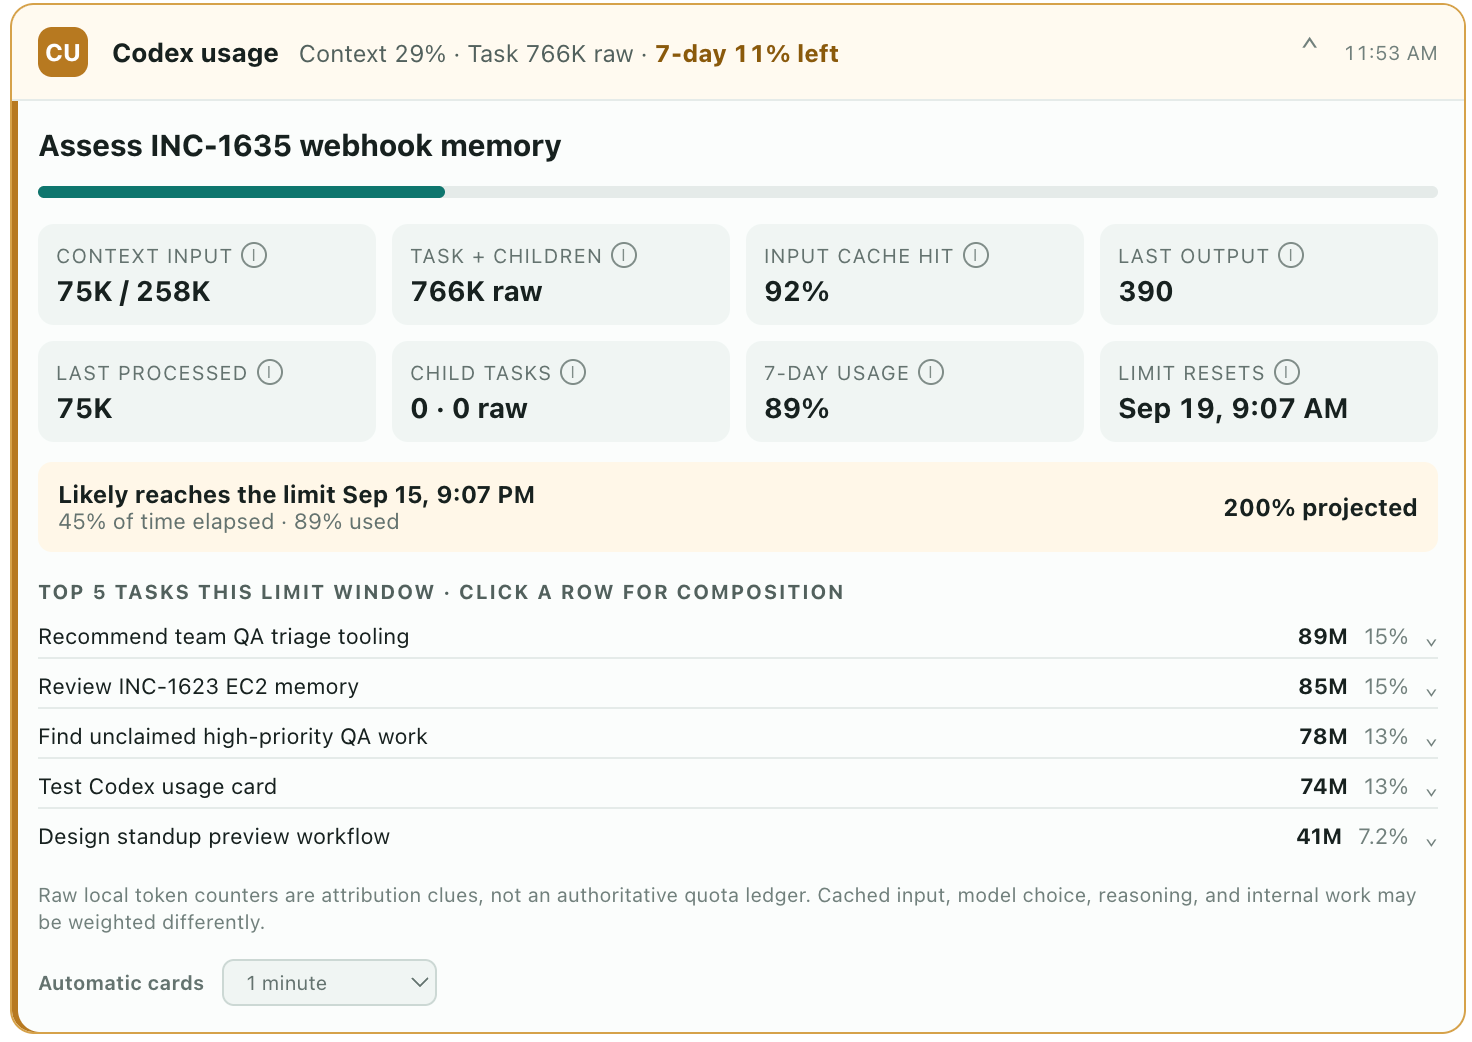
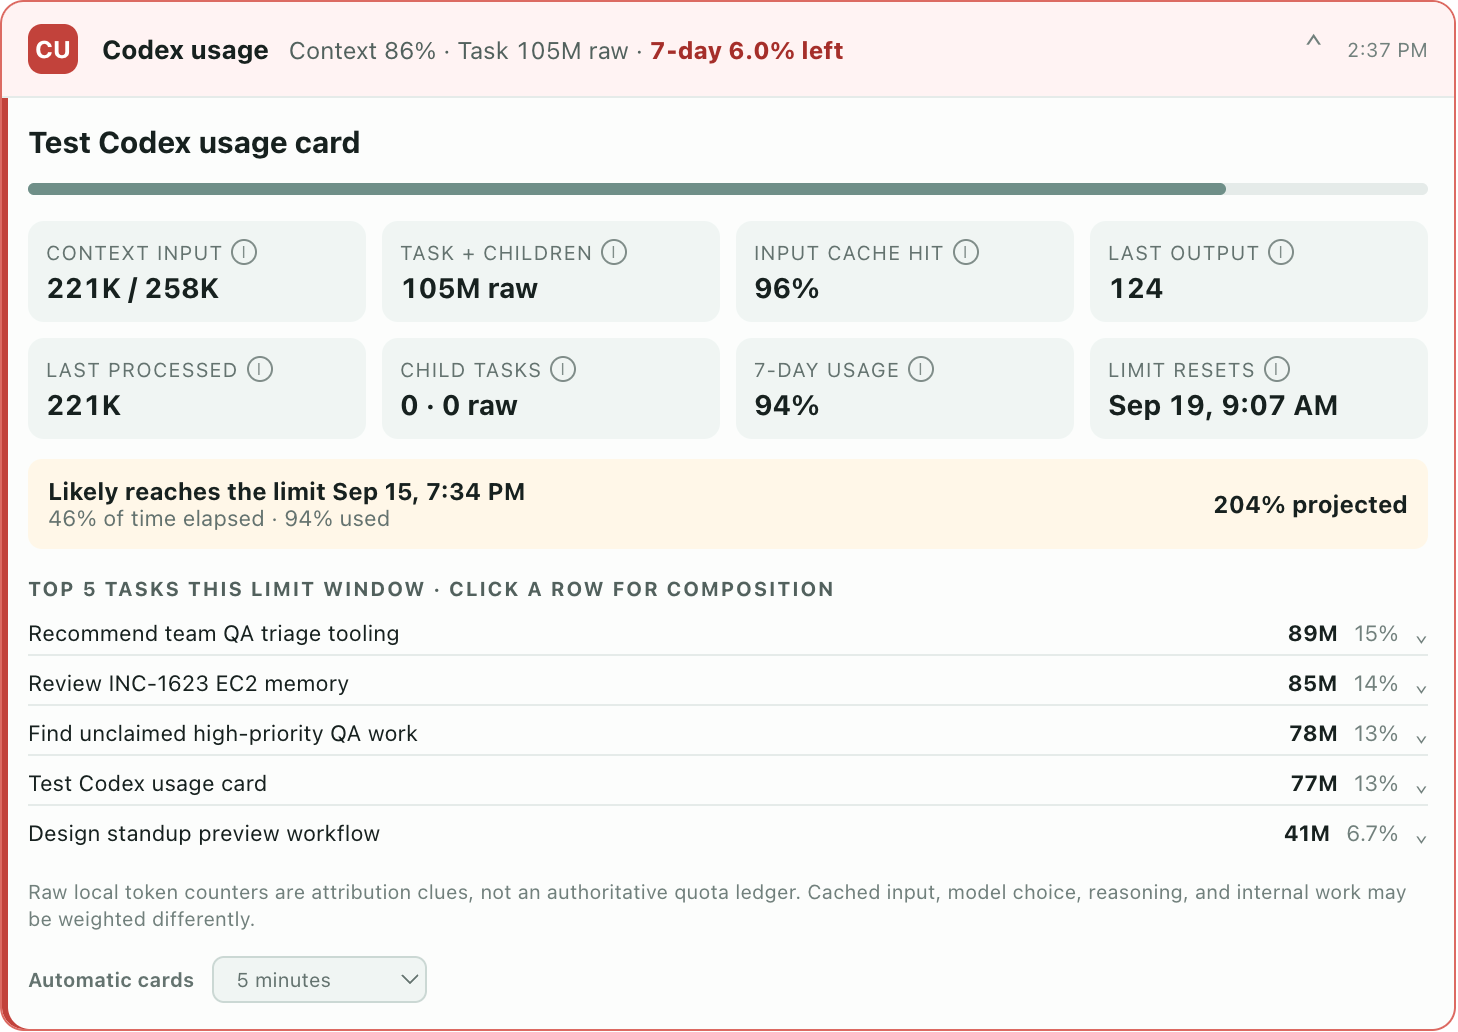
Load usage card details asynchronously
Codex-Session: Codex --resume 01a0a27d-30f0-7222-a56f-6a2e11464c00

diff --git a/assets/status-card.html b/assets/status-card.html
@@ -47,6 +47,7 @@
     .pace .projection { font-variant-numeric: tabular-nums; white-space: nowrap; }
     h3 { margin: 14px 0 6px; color: #52615d; font-size: 10px; text-transform: uppercase; letter-spacing: .08em; }
     .tasks { display: grid; gap: 3px; }
+    .details-loading { padding: 7px 0; color: #71807c; font-size: 10px; }
     .task-row { border-bottom: 1px solid #e5ebe9; }
     .task-row:last-child { border-bottom: 0; }
     .task-row > summary { display: grid; grid-template-columns: minmax(0, 1fr) auto auto auto; gap: 8px; align-items: center; padding: 4px 0; cursor: pointer; list-style: none; font-size: 11px; }
@@ -76,7 +77,7 @@
       .detail { border-color: #34403d; }
       .meter { background: #34403d; }
       .metric { background: #202927; }
-      .metric span, .chevron, .snapshot, .task-row .share, .task-caret, .task-breakdown, .pace span, .note, .settings, .loading { color: #9caaa6; }
+      .metric span, .chevron, .snapshot, .task-row .share, .task-caret, .task-breakdown, .pace span, .note, .settings, .loading, .details-loading { color: #9caaa6; }
       .alert { background: #352a18; }
       .alert.notice, .pace { background: #202927; }
       .pace.risk { background: #352a18; }
@@ -148,8 +149,13 @@
         refreshTimer = null;
         const live = data?.liveRefresh || {};
         const deadline = Number(live.untilEpochMs || 0);
-        if (!initialized || !live.enabled || !data?.thread?.id || deadline <= Date.now()) return;
+        const needsDetails = data?.detailsLoaded === false;
+        if (!initialized || !data?.thread?.id) return;
+        if (!needsDetails && (!live.enabled || deadline <= Date.now())) return;
         const interval = Math.max(1000, Number(live.intervalMs || 3000));
+        const delay = needsDetails
+          ? (document.visibilityState === 'hidden' ? 1000 : 0)
+          : Math.min(interval, Math.max(0, deadline - Date.now()));
         refreshTimer = window.setTimeout(async () => {
           if (document.visibilityState === 'hidden') {
             scheduleRefresh(data);
@@ -158,13 +164,17 @@
           try {
             const result = await request('tools/call', {
               name: 'refresh_usage_card',
-              arguments: { thread_id: data.thread.id, live_until_epoch_ms: deadline }
+              arguments: {
+                thread_id: data.thread.id,
+                live_until_epoch_ms: deadline,
+                live: Boolean(live.enabled)
+              }
             });
             render(structured(result));
           } catch (_error) {
             refreshTimer = null;
           }
-        }, Math.min(interval, Math.max(0, deadline - Date.now())));
+        }, delay);
       };
       function render(data) {
         if (!data || data.kind !== 'usage_card') return;
@@ -206,7 +216,10 @@
           const detail = `${pct(pace.elapsedPercent)} of time elapsed · ${pct(limit.usedPercent)} used`;
           paceRow = `<div class="pace ${risk ? 'risk' : ''}" title="Projection uses the average aggregate usage rate since this account window began; it will change as your pace changes."><div><strong>${esc(headline)}</strong><span>${esc(detail)}</span></div><strong class="projection">${pct(pace.projectedPercent)} projected</strong></div>`;
         }
-        const interval = Number(data.preferences?.autoCardIntervalSeconds ?? 60);
+        const interval = Number(data.preferences?.autoCardIntervalSeconds ?? 300);
+        const taskDetails = data.detailsLoaded === false
+          ? '<div class="details-loading">Loading cross-task breakdown…</div>'
+          : (taskRows || '<span class="note">No recorded activity.</span>');
         root.innerHTML = `
           <details ${expanded ? 'open' : ''}>
             <summary>
@@ -231,7 +244,7 @@
               ${paceRow}
               ${alerts}
               <h3>Top 5 tasks this limit window · click a row for composition</h3>
-              <div class="tasks">${taskRows || '<span class="note">No recorded activity.</span>'}</div>
+              <div class="tasks">${taskDetails}</div>
               <p class="note">Raw local token counters are attribution clues, not an authoritative quota ledger. Cached input, model choice, reasoning, and internal work may be weighted differently.</p>
               <div class="settings" title="Controls the minimum time between new automatic cards in each task. Existing cards remain historical snapshots.">
                 <label for="auto-card-interval">Automatic cards</label>

diff --git a/scripts/server.py b/scripts/server.py
@@ -47,7 +47,7 @@ _DASHBOARD_LOCK = threading.Lock()
 _REPORT_CACHE: dict[tuple[str, bool], tuple[float, dict[str, Any]]] = {}
 _REPORT_CACHE_LOCK = threading.Lock()
 _REPORT_CACHE_TTL_SECONDS = 10
-_CARD_REPORT_CACHE_TTL_SECONDS = 30
+_CARD_REPORT_CACHE_TTL_SECONDS = 5 * 60
 _LIMIT_CACHE: tuple[float, dict[str, Any] | None] | None = None
 _LIMIT_CACHE_LOCK = threading.Lock()
 _LIMIT_CACHE_TTL_SECONDS = 10
@@ -490,10 +490,16 @@ def current_conversation_usage(arguments: dict[str, Any]) -> dict[str, Any]:
     }
 
 
-def usage_card(arguments: dict[str, Any]) -> dict[str, Any]:
+def usage_card(
+    arguments: dict[str, Any], *, include_details: bool = True
+) -> dict[str, Any]:
     current = current_conversation_usage(arguments)
-    dashboard = _cached_usage_dashboard(
-        "current_window", False, _CARD_REPORT_CACHE_TTL_SECONDS
+    dashboard = (
+        _cached_usage_dashboard(
+            "current_window", False, _CARD_REPORT_CACHE_TTL_SECONDS
+        )
+        if include_details
+        else None
     )
     now = datetime.now(timezone.utc)
     live_requested = bool(arguments.get("live", True))
@@ -544,7 +550,8 @@ def usage_card(arguments: dict[str, Any]) -> dict[str, Any]:
         "combinedTokens": current["combinedTokens"],
         "limit": current["limit"],
         "pace": _usage_pace(current["limit"]),
-        "windowUsage": dashboard["totals"],
+        "detailsLoaded": include_details,
+        "windowUsage": dashboard["totals"] if dashboard else None,
         "topTasks": [
             {
                 "id": task["id"],
@@ -561,7 +568,7 @@ def usage_card(arguments: dict[str, Any]) -> dict[str, Any]:
                 "totalTokens": task["totalTokens"],
                 "sharePercent": task["sharePercent"],
             }
-            for task in dashboard["tasks"][:5]
+            for task in (dashboard["tasks"][:5] if dashboard else [])
         ],
         "alerts": alerts,
         "preferences": get_preferences(),
@@ -771,6 +778,11 @@ TOOLS = [
                 "type": "number",
                 "description": "The original card's fixed live-refresh deadline.",
             },
+            "live": {
+                "type": "boolean",
+                "default": True,
+                "description": "Continue live refreshes after the cross-task details load.",
+            },
         },
         required=["thread_id", "live_until_epoch_ms"],
     ),
@@ -945,17 +957,18 @@ def _handle(method: str, params: dict[str, Any]) -> Any:
         name = params.get("name")
         arguments = params.get("arguments") or {}
         if name == "show_usage_card":
-            return _tool_result(usage_card(arguments))
+            return _tool_result(usage_card(arguments, include_details=False))
         if name == "refresh_usage_card":
             return _tool_result(
                 usage_card(
                     {
                         "thread_id": arguments.get("thread_id"),
-                        "live": True,
+                        "live": bool(arguments.get("live", True)),
                         "live_until_epoch_ms": arguments.get(
                             "live_until_epoch_ms"
                         ),
-                    }
+                    },
+                    include_details=True,
                 )
             )
         if name == "get_usage_preferences":

diff --git a/tests/test_usage_card.py b/tests/test_usage_card.py
@@ -1,0 +1,96 @@
+from __future__ import annotations
+
+import sys
+import unittest
+from pathlib import Path
+from unittest.mock import patch
+
+
+ROOT = Path(__file__).resolve().parent.parent
+sys.path.insert(0, str(ROOT / "scripts"))
+
+import server  # noqa: E402
+
+
+class UsageCardTest(unittest.TestCase):
+    def test_initial_card_skips_dashboard_then_refresh_loads_it(self) -> None:
+        current = {
+            "thread": {"id": "task-1", "name": "Test task"},
+            "ownUsage": {"totalTokens": 1000, "cachedPercent": 80},
+            "latestTurn": {"outputTokens": 20, "totalTokens": 100},
+            "context": {
+                "inputTokens": 80,
+                "windowTokens": 1000,
+                "usedPercent": 8,
+            },
+            "subagents": [],
+            "subagentTokens": 0,
+            "combinedTokens": 1000,
+            "limit": None,
+        }
+        dashboard = {
+            "totals": {"totalTokens": 3000},
+            "tasks": [
+                {
+                    "id": "task-1",
+                    "name": "Test task",
+                    "source": "cli",
+                    "model": "test-model",
+                    "project": "test-project",
+                    "responses": 2,
+                    "inputTokens": 2500,
+                    "cachedInputTokens": 2000,
+                    "cachedPercent": 80,
+                    "outputTokens": 500,
+                    "reasoningOutputTokens": 100,
+                    "totalTokens": 3000,
+                    "sharePercent": 100,
+                }
+            ],
+        }
+
+        with (
+            patch.object(server, "current_conversation_usage", return_value=current),
+            patch.object(server, "_cached_usage_dashboard", return_value=dashboard) as scan,
+            patch.object(
+                server,
+                "get_preferences",
+                return_value={
+                    "autoCardEnabled": True,
+                    "autoCardIntervalSeconds": 300,
+                },
+            ),
+        ):
+            initial = server._handle(
+                "tools/call",
+                {
+                    "name": "show_usage_card",
+                    "arguments": {"thread_id": "task-1", "live": True},
+                },
+            )["structuredContent"]
+
+            self.assertFalse(initial["detailsLoaded"])
+            self.assertIsNone(initial["windowUsage"])
+            self.assertEqual(initial["topTasks"], [])
+            scan.assert_not_called()
+
+            refreshed = server._handle(
+                "tools/call",
+                {
+                    "name": "refresh_usage_card",
+                    "arguments": {
+                        "thread_id": "task-1",
+                        "live_until_epoch_ms": 9_999_999_999_999,
+                        "live": True,
+                    },
+                },
+            )["structuredContent"]
+
+            self.assertTrue(refreshed["detailsLoaded"])
+            self.assertEqual(refreshed["windowUsage"], dashboard["totals"])
+            self.assertEqual(refreshed["topTasks"][0]["name"], "Test task")
+            scan.assert_called_once_with("current_window", False, 300)
+
+
+if __name__ == "__main__":
+    unittest.main()

diff --git a/tests/test_preferences.py b/tests/test_preferences.py
@@ -27,10 +27,10 @@ class PreferencesTest(unittest.TestCase):
         self.temporary.cleanup()
 
     def test_default_and_rate_limit(self) -> None:
-        self.assertEqual(get_preferences()["autoCardIntervalSeconds"], 60)
+        self.assertEqual(get_preferences()["autoCardIntervalSeconds"], 300)
         self.assertTrue(claim_auto_card("task-1", now=1000))
-        self.assertFalse(claim_auto_card("task-1", now=1059))
-        self.assertTrue(claim_auto_card("task-1", now=1060))
+        self.assertFalse(claim_auto_card("task-1", now=1299))
+        self.assertTrue(claim_auto_card("task-1", now=1300))
 
     def test_every_turn_and_off(self) -> None:
         set_auto_card_interval(0)

diff --git a/scripts/preferences.py b/scripts/preferences.py
@@ -9,7 +9,7 @@ from pathlib import Path
 from typing import Any
 
 
-DEFAULT_AUTO_CARD_INTERVAL_SECONDS = 60
+DEFAULT_AUTO_CARD_INTERVAL_SECONDS = 300
 AUTO_CARD_INTERVAL_OPTIONS = {-1, 0, 30, 60, 300, 900}
 STATE_RETENTION_SECONDS = 30 * 24 * 60 * 60
 

diff --git a/README.md b/README.md
@@ -2,7 +2,13 @@
 
 A private, local-first Codex plugin that attributes raw processed tokens to conversations, subagents, automations, and internal activity. It supports personal installs, private workspace distribution, and self-contained GitHub release bundles without public marketplace publication.
 
-![Codex Usage expanded usage card](assets/codex-usage-card.png)
+Collapsed warning state:
+
+![Codex Usage collapsed critical warning](assets/codex-usage-card-collapsed.png)
+
+Expanded details:
+
+![Codex Usage expanded critical warning](assets/codex-usage-card.png)
 
 ## Install
 
@@ -71,13 +77,21 @@ See [OpenAI's plugin submission documentation](https://developers.openai.com/plu
 
 ## UI surfaces
 
-- Automatic cards are rate-limited to one per task per minute by default. A qualifying user prompt creates a **new** compact snapshot near that turn; it refreshes in place for up to two minutes while work continues, then freezes in conversation history. Older cards are never rewritten.
+- Automatic cards are rate-limited to one per task every five minutes by default. A qualifying user prompt creates a **new** compact snapshot near that turn; it refreshes in place for up to two minutes while work continues, then freezes in conversation history. Older cards are never rewritten.
 - The minimized header includes the snapshot time and remaining account capacity. It turns amber when 15% or less remains or current pace projects over the limit, and red when 10% or less remains. Clicking it expands clearly defined token metrics, a limit-window pace projection, a subdued compaction notice, the top five tasks, and a global automatic-card frequency control (every turn, 30 seconds, 1/5/15 minutes, or off). Open card instances synchronize that preference when the client permits it, and every historical card rechecks it when expanded.
 - `show_usage_card` can also render a card on demand. `refresh_usage_card` is used only by an already-rendered card, so live updates do not add more conversation items.
 - Mobile Remote falls back to a single-line status result when it does not render the MCP App iframe; say `usage details` for a text breakdown.
 - `open_usage_dashboard` starts the optional private localhost dashboard for a larger cross-task view.
 - `current_conversation_usage` returns a concise snapshot for the active conversation when a panel is not needed.
 - `usage_dashboard` returns structured cross-task data for the current limit window, today, or rolling 7/30-day ranges.
+
+## How automatic cards work
+
+The trusted prompt hook only decides whether a card is due and asks Codex to invoke it; it does not scan usage data itself. The first tool result reads the current task and latest account-limit snapshot, so the compact header can appear quickly with context, task tokens, remaining capacity, warning color, and snapshot time.
+
+Once that header is rendered, the embedded card requests the heavier limit-window scan asynchronously. Expanding immediately may briefly show **Loading cross-task breakdown…** before the top-five task list arrives. That scan is cached for five minutes, while the current-task values can continue refreshing every few seconds for up to two minutes. This background hydration does not hold up the agent after the initial compact result has returned.
+
+The five-minute automatic-card cadence limits how often a new conversation item is added; it is separate from the short-lived refreshes inside an existing card. Change the cadence from any expanded card. The preference is shared globally, while the last-rendered timestamp is tracked per task.
 
 ## Data and privacy
 

diff --git a/skills/codex-usage/SKILL.md b/skills/codex-usage/SKILL.md
@@ -13,9 +13,9 @@ Call `show_usage_card` by default when the user asks to show, display, view, or 
 
 Mobile Remote currently preserves the tool result but may not render the MCP App iframe. The text fallback is intentionally one line and tells the user to say `usage details`. When the user asks for those details after a text-only result, call `show_usage_card` again and summarize its structured result in text: context input/window, latest output, cached input, subagents, account usage/reset, alerts, and top tasks. Do not claim that the one-line mobile result is clickable or expandable.
 
-The plugin's trusted `UserPromptSubmit` hook may add developer context saying an automatic card is due. When it does, call `show_usage_card` exactly once before other work with the supplied `thread_id`, `live: true`, and `automatic: true`, then continue the user's request without narrating the card call. The hook rate-limits this per task (one minute by default), so do not second-guess or duplicate it. If the hook does not say a card is due, do not render one after an unrelated reply.
+The plugin's trusted `UserPromptSubmit` hook may add developer context saying an automatic card is due. When it does, call `show_usage_card` exactly once before other work with the supplied `thread_id`, `live: true`, and `automatic: true`, then continue the user's request without narrating the card call. The hook rate-limits this per task (five minutes by default), so do not second-guess or duplicate it. If the hook does not say a card is due, do not render one after an unrelated reply.
 
-Each newly rendered card refreshes its own values for up to two minutes while the turn is active, then freezes as a historical snapshot. It never rewrites an older card. The expanded card can set the automatic-card cadence, applied independently per task, to every turn, 30 seconds, 1 minute, 5 minutes, 15 minutes, or off. Do not claim background popup alerts when no user turn is running.
+Each newly rendered card returns its compact current-task header first, then loads the heavier cross-task breakdown inside the card without holding up the agent. It refreshes its own values for up to two minutes while the turn is active, then freezes as a historical snapshot. It never rewrites an older card. The expanded card can set the automatic-card cadence, applied independently per task, to every turn, 30 seconds, 1 minute, 5 minutes, 15 minutes, or off. Do not claim background popup alerts when no user turn is running.
 
 ## Optional dashboard
 
